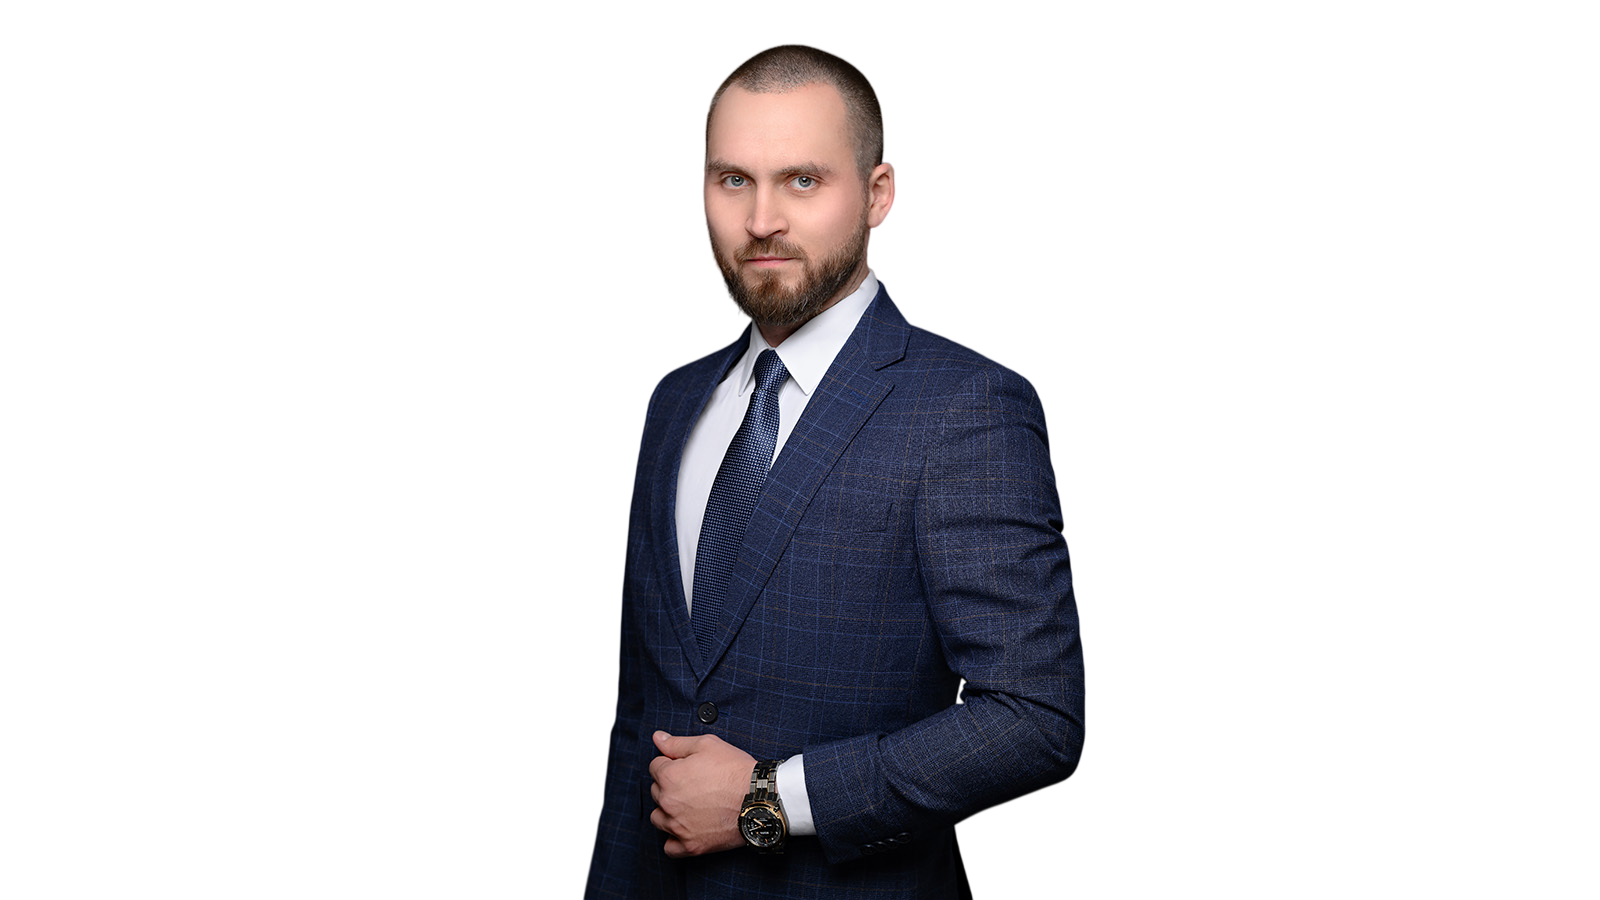
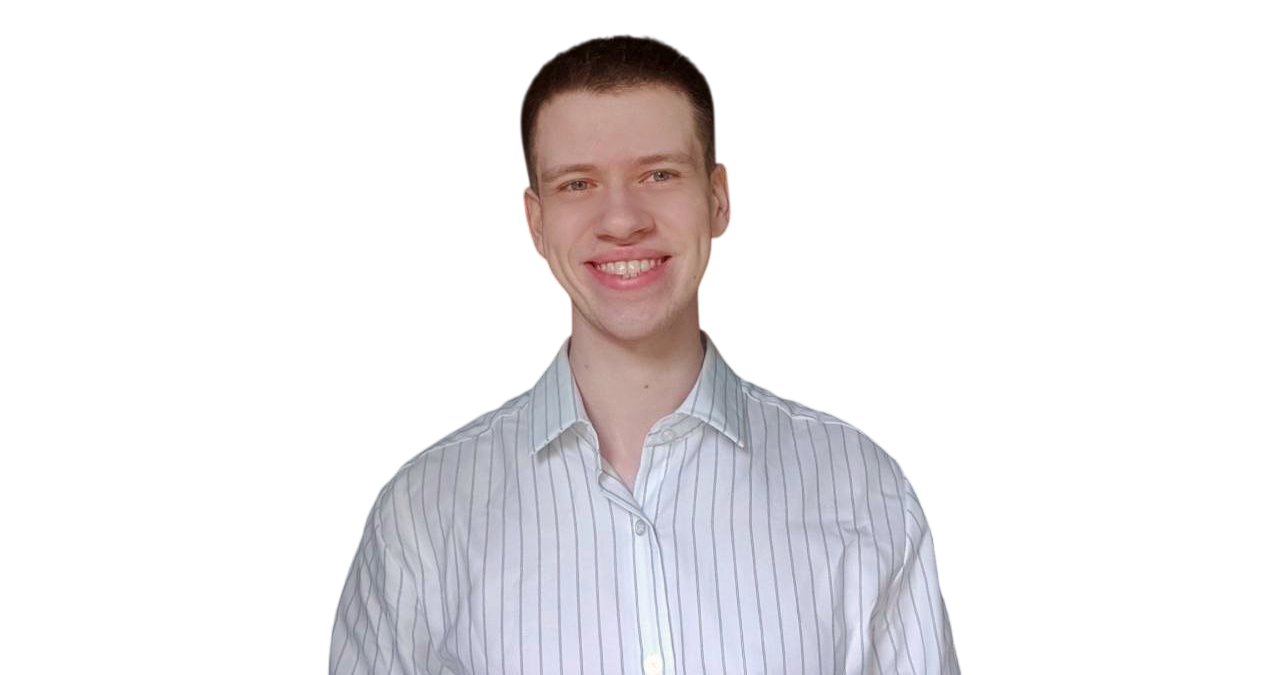
Update profile content and portrait with real education and experience details.

Changed region(s): [[0.25, 0.0311, 0.75, 1.0]]

diff --git a/src/data/content.js b/src/data/content.js
@@ -4,7 +4,7 @@
 //  Плейсхолдеры вида «<...>» — подставить реальные названия.
 // ─────────────────────────────────────────────────────────────
 
-import { asset } from '../lib/asset.js'
+import { asset } from '../lib/asset.js';
 
 export const profile = {
   greeting: 'Привет',
@@ -188,13 +188,13 @@ export const experience = [
   {
     period: '03.2024 — 11.2024',
     title: 'Backend Developer',
-    org: '<вставлю название>',
+    org: '',
     note: 'Пришёл на бэкенд, но закрыл и фронтенд: освоил необходимую часть React для решения задачи. Работал в команде, состоящей из 10 человек.',
   },
   {
     period: '10.2022 — 01.2024',
     title: 'Backend Developer (Junior)',
-    org: '<вставлю название>',
+    org: 'МФК Фордевинд',
     note: 'Реализовал 20+ фич для внутренней CRM, которые помогли закрыть боли менеджеров. Оптимизировал SQL и внедрил кэширование — сократил время обработки заявок на ~15%.',
   },
 ];
@@ -230,13 +230,13 @@ export const skills = [
 ];
 
 export const education = {
-  place: '<вставлю название>',
+  place: 'Яргу им. П. Г. Демидова',
   faculty: 'Факультет информатики и вычислительной техники',
   direction: 'Прикладная информатика и математика',
   period: '2021 — н.в.',
   courses: ['Теория вероятностей', 'Статистика', 'Алгоритмы и структуры данных'],
   extra: [
-    'Тимлид волонтёрской команды — <вставлю название>, февраль 2026.',
+    'Тимлид волонтёрской команды — Школа 21 "Сбер", февраль 2026.',
     'Тимлид студенческого проекта — сервис для разделения счетов.',
     'Английский — B1 (чтение документации, техническая переписка).',
   ],